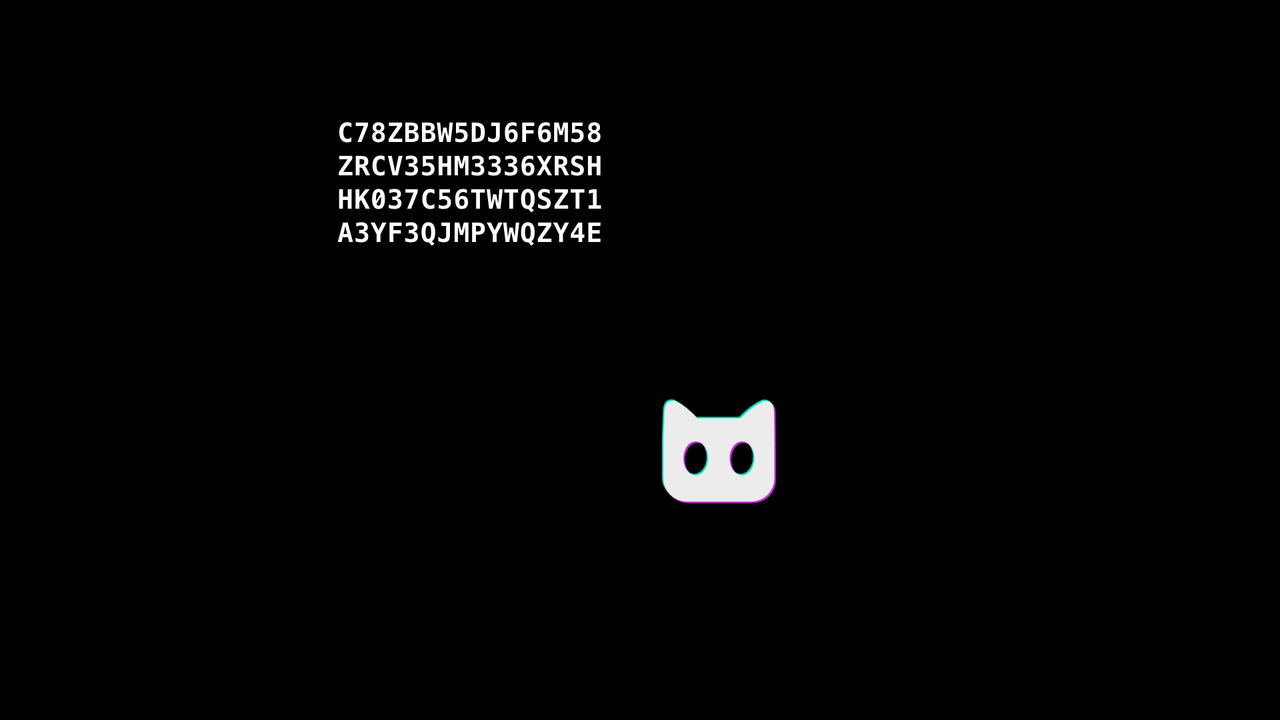
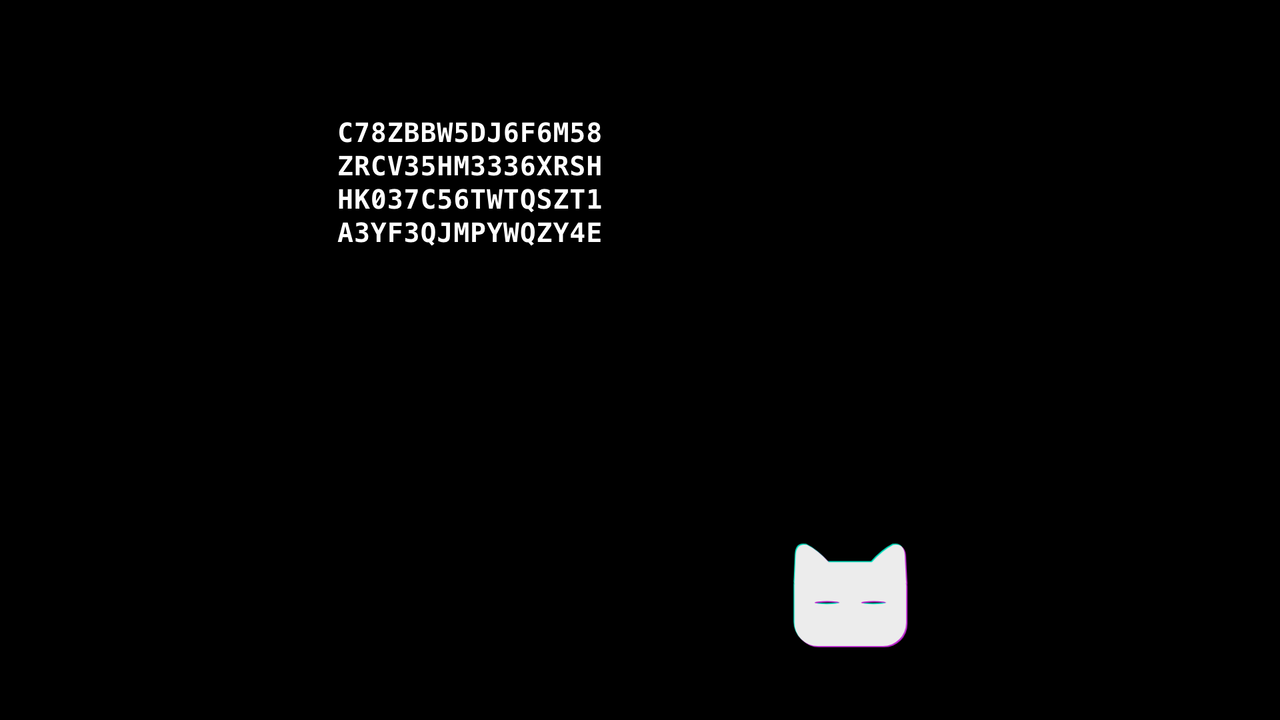
8 HOURS DVD bounce: CODE = FREE TOKENS :P intro, no HA pops, download from the GitHub release (gallery: optional external download per item)

Changed region(s): [[0.5938, 0.7333, 0.7188, 0.9167], [0.5, 0.55, 0.625, 0.7028]]

diff --git a/animations/mascot-codes-superbot-d7bc1ed7/dvd-bounce-8h.html b/animations/mascot-codes-superbot-d7bc1ed7/dvd-bounce-8h.html
@@ -14,25 +14,26 @@
 <style>
   .mover { position: absolute; left: 0; top: 0; will-change: transform; }
   .squash { transform-origin: 50% 50%; }
-  .ha { position: absolute; left: 0; top: 0; font-size: 58px; font-weight: 900; letter-spacing: 0.02em; white-space: nowrap; }
   .flash { position: absolute; inset: 0; pointer-events: none; }
+  .intro { text-align: center; line-height: 0.95; transform-origin: 50% 50%; white-space: nowrap; }
   .cluster { position: absolute; font-size: 40px; line-height: 1.25; color: #fff; white-space: nowrap; }
   .wall { position: absolute; inset: 0; display: grid; align-content: center; justify-content: center; gap: 14px 30px; color: #fff; }
 </style>
 </head>
 <body>
 <script>
-/* 8 hours of black. The mark drifts like the old DVD logo, and every time it meets an edge it squashes,
-   smiles (the invite page's own happy state) and a little HA pops off the wall. Hidden in the 8 hours:
-   code flashes, 3 frames each (0.1 s), in seeded random places, the first at exactly 1.2 s.
+/* 8 hours of black. The mark drifts like the old DVD logo, and every time it meets an edge it squashes
+   and smiles (the invite page's own happy state). Hidden in the 8 hours:
+   code flashes, 3 frames each (0.1 s), in seeded random places. It opens on a 0.7 s "CODE = FREE TOKENS :P"
+   card, then the bounce starts; the first flash lands 1.2 s after that (1.9 s in).
 
    The bounce closes on PERIOD (each axis makes a whole number of round trips in it), so the recorder
    (render-long.mjs) renders one period of 2 s segments once and re-renders only the segments holding a
-   flash. ?noflash renders the bare bounce for those base segments. */
+   flash. ?noflash renders the bare bounce for those base segments (no card, no flashes). */
 var HOURS = 8, LOOP = HOURS * 3600, PERIOD = 60, FPS = 30, SEG = 60, SIZE = 230, SPEED = 300;
-var FIRST_FLASH = 36, FLASH_FRAMES = 3, LAUGH = 0.75;
+var INTRO = 0.7, FIRST_FLASH = 57, PLAN_START = 36, FLASH_FRAMES = 3, LAUGH = 0.75;
 var NOFLASH = new URLSearchParams(location.search).has('noflash');
-var mark, mover, squash, pops = [], flashLayer, flashes, hits, blinks, shownFlash = -1;
+var mark, mover, squash, intro, flashLayer, flashes, hits, blinks, shownFlash = -1;
 var W, Rx, Ry, vx, vy, x0, y0;
 
 function gcd(a, b) { return b ? gcd(b, a % b) : a; }
@@ -54,13 +55,14 @@ function periodHits() {
 
 // Seeded over the whole 8 h: gaps of 20 s to 4 min, never straddling a 2 s segment edge.
 function flashPlan() {
-  var rand = SB.rng(20260924), out = [], f = FIRST_FLASH;
+  var rand = SB.rng(20260924), out = [], f = PLAN_START;
   while (f + FLASH_FRAMES < LOOP * FPS) {
     if (f % SEG > SEG - FLASH_FRAMES) f += SEG - (f % SEG) + 1;
     var wall = out.length > 0 && rand() < 0.14;
     out.push({ f: f, wall: wall, n: 1 + Math.floor(rand() * 6), fx: rand(), fy: rand(), seed: 1 + Math.floor(rand() * 1e9) });
     f += Math.round((20 + rand() * 220) * FPS);
   }
+  out[0].f = FIRST_FLASH; // 1.2 s after the card hands over; the rest keep their seeded frames
   return out;
 }
 
@@ -122,8 +124,13 @@ SB.ad({
         return false;
       }
     });
-    pops = [0, 1, 2].map(function () { return SB.el('div', 'ha', frame); });
     flashLayer = SB.el('div', 'flash', frame);
+    var introWrap = SB.el('div', 'mc-center', frame);
+    intro = SB.el('div', 'mc-type intro', introWrap);
+    intro.style.fontSize = '170px';
+    intro.innerHTML = ctx.narrow ? 'CODE =<br>FREE<br>TOKENS :P' : 'CODE = FREE TOKENS :P';
+    SB.fit(intro, ctx.w * 0.86, 1080 * 0.7);
+    intro = introWrap;
     flashes = flashPlan();
     shownFlash = -2;
     window.__long = { period: PERIOD, seg: SEG, fps: FPS, loop: LOOP, flashes: flashes.map(function (f) { return f.f; }) };
@@ -132,6 +139,9 @@ SB.ad({
     var base = Math.floor(t / PERIOD) * PERIOD, p = t - base;
     var here = pos(t);
     mover.style.transform = 'translate(' + here.x.toFixed(2) + 'px, ' + here.y.toFixed(2) + 'px)';
+    var carding = !NOFLASH && t < INTRO;
+    intro.style.visibility = carding ? 'visible' : 'hidden';
+    mover.style.visibility = carding ? 'hidden' : 'visible';
 
     // Smile windows for this period and the tail of the last one (the kit syncs the happy bob to them).
     var happy = [], recent = [];
@@ -140,7 +150,7 @@ SB.ad({
       hits.forEach(function (h, i) {
         var at = b + h.t;
         happy.push([at, LAUGH]);
-        if (t >= at && t < at + 0.8) recent.push({ h: h, at: at, n: i });
+        if (t >= at && t < at + 0.8) recent.push({ h: h, at: at });
       });
     });
     mark.happy = happy;
@@ -152,19 +162,6 @@ SB.ad({
     });
     squash.style.transform = 'scale(' + sx.toFixed(4) + ', ' + sy.toFixed(4) + ')';
 
-    pops.forEach(function (el, i) {
-      var r = recent[recent.length - 1 - i];
-      if (!r) { el.style.opacity = '0'; return; }
-      var at = pos(r.at), age = t - r.at, q = SB.easeOut(SB.seg(age, 0, 0.8));
-      var words = ['HA', 'HA!', 'HAHA', 'HA HA', 'HEHE'];
-      el.textContent = words[r.n % words.length];
-      // Off the wall it hit, into the frame, drifting up.
-      var ox = r.h.axis === 'x' ? (r.h.far ? -120 - 60 * q : SIZE + 20 + 60 * q) : SIZE * 0.35;
-      var oy = r.h.axis === 'y' ? (r.h.far ? -70 - 40 * q : SIZE + 10 + 40 * q) : -10 - 60 * q;
-      var tilt = (r.n % 2 ? 1 : -1) * 8;
-      el.style.transform = 'translate(' + (at.x + ox).toFixed(1) + 'px, ' + (at.y + oy).toFixed(1) + 'px) rotate(' + tilt + 'deg) scale(' + SB.lerp(0.6, 1, SB.backOut(SB.seg(age, 0, 0.25))).toFixed(3) + ')';
-      el.style.opacity = String(1 - SB.seg(age, 0.45, 0.8));
-    });
 
     var idx = NOFLASH ? -1 : activeFlash(Math.round(t * FPS));
     if (idx !== shownFlash) { drawFlash(idx, ctx); shownFlash = idx; }

diff --git a/gallery.js b/gallery.js
@@ -30,6 +30,15 @@ function renderDl() {
     return;
   }
   const label = RATIOS.find(x => x[0] === ar)[1];
+  if (it.download) { // a file too big for Pages lives on a GitHub release (one ratio); no same-origin probe
+    a.href = it.download;
+    a.removeAttribute('download');
+    a.textContent = `⤓ download ${it.downloadLabel || label}`;
+    a.title = '';
+    a.classList.remove('no-render');
+    a.hidden = false;
+    return;
+  }
   const href = `assets/video/${it.id}.${ar}.mp4`;
   a.href = href;
   a.download = `${it.id}-${label.replace(':', 'x')}.mp4`;
